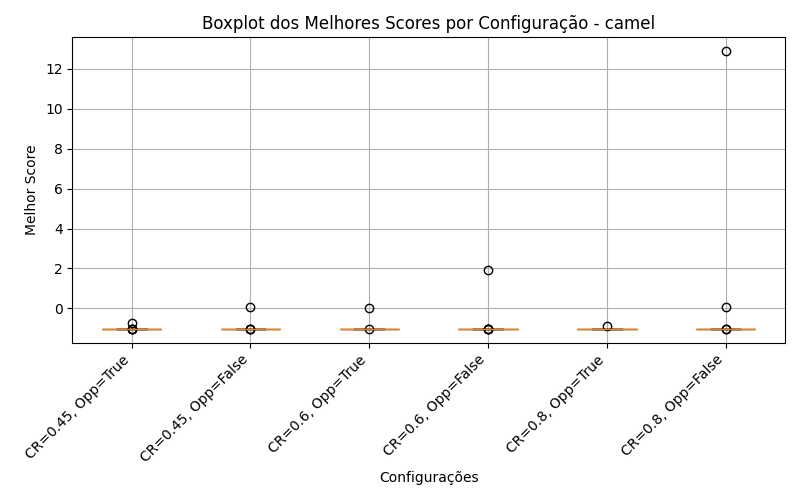
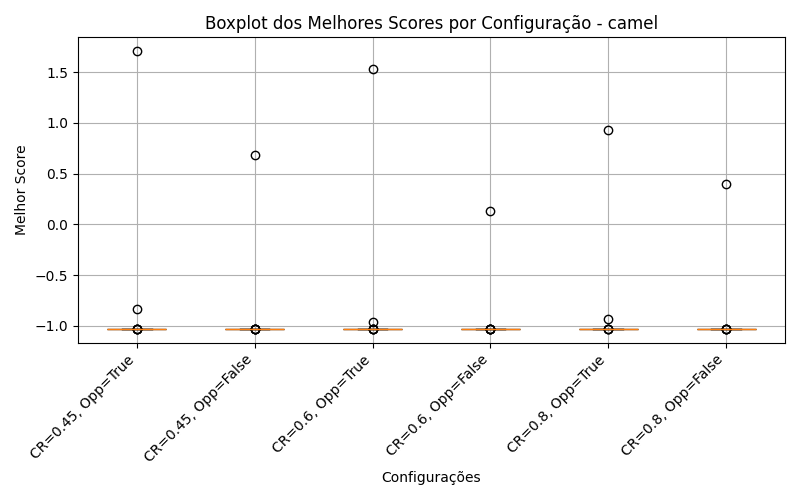
update files

diff --git a/main.py b/main.py
@@ -13,7 +13,7 @@ def get_result_and_plot(generations, m, data_config, SR, CR, gamma, opposition, 
     best_result = None
     best_score = float('inf')  # ou float('-inf') dependendo se você minimiza ou maximiza
 
-    for i in range(1):
+    for i in range(30):
         result, scores_g = run_clonal_g(generations=generations, P=m, SR=SR, CR=CR, gama_seed=gamma, data_config=data_config, opposition=opposition)
         all_results.append(result)
         all_scores_g.append(scores_g)
@@ -118,7 +118,7 @@ def your_function_to_track():
         plt.plot(range(1, len(best_shubert["mean_scores_g"]) + 1), best_shubert["mean_scores_g"], 'o-', label=f"CLONALG (CR={best_shubert['CR']}, Opp={best_shubert['opposition']})", color="blue")
         plt.plot(ast.literal_eval(df_ga_shubert_GA.iloc[7].values[1]), 'x-', label="GA", color="green")
         plt.plot(ast.literal_eval(df_ga_shubert_PSO.iloc[4].values[1]), 'x-', label="PSO", color="orange")
-        plt.plot(ast.literal_eval(df_ga_shubert_de.iloc[1].values[1]), 'x-', label="DE", color="red")
+        plt.plot(ast.literal_eval(df_ga_shubert_de.iloc[2].values[1]), 'x-', label="DE", color="red")
         plt.title("Comparação da evolução do GA e DE - Shubert")
         plt.xlabel("Gerações")
         plt.ylabel("Score")
@@ -132,7 +132,7 @@ def your_function_to_track():
         plt.plot(range(1, len(best_camel["mean_scores_g"]) + 1), best_camel["mean_scores_g"], 'o-', label=f"clonalf (CR={best_camel['CR']}, Opp={best_camel['opposition']})", color="blue")
         plt.plot(ast.literal_eval(df_ga_camel_GA.iloc[7].values[1]), 'x-', label="GA", color="green")
         plt.plot(ast.literal_eval(df_ga_camel_PSO.iloc[4].values[1]), 'x-', label="PSO", color="orange")
-        plt.plot(ast.literal_eval(df_ga_camel_de.iloc[1].values[1]), 'x-', label="DE", color="red")
+        plt.plot(ast.literal_eval(df_ga_camel_de.iloc[2].values[1]), 'x-', label="DE", color="red")
         plt.title("Comparação da evolução do GA e DE - Camel")
         plt.xlabel("Gerações")
         plt.ylabel("Score")
